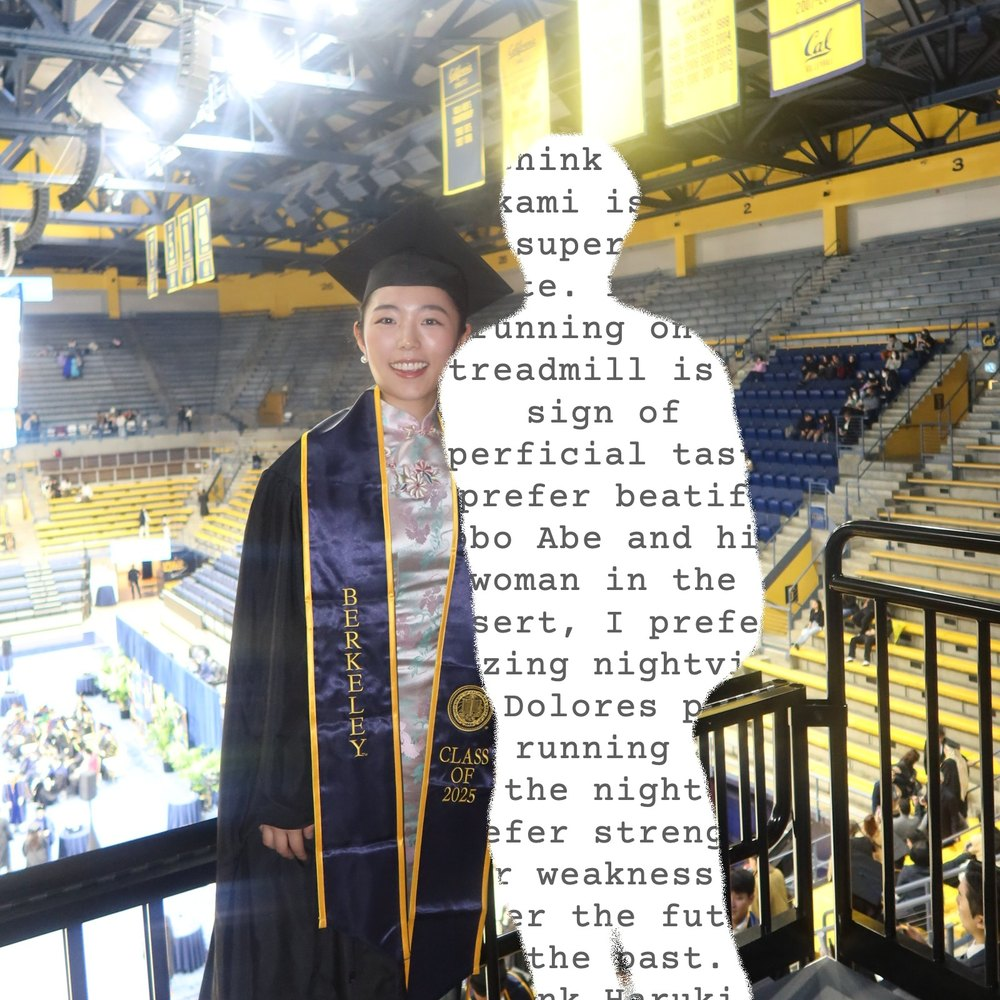
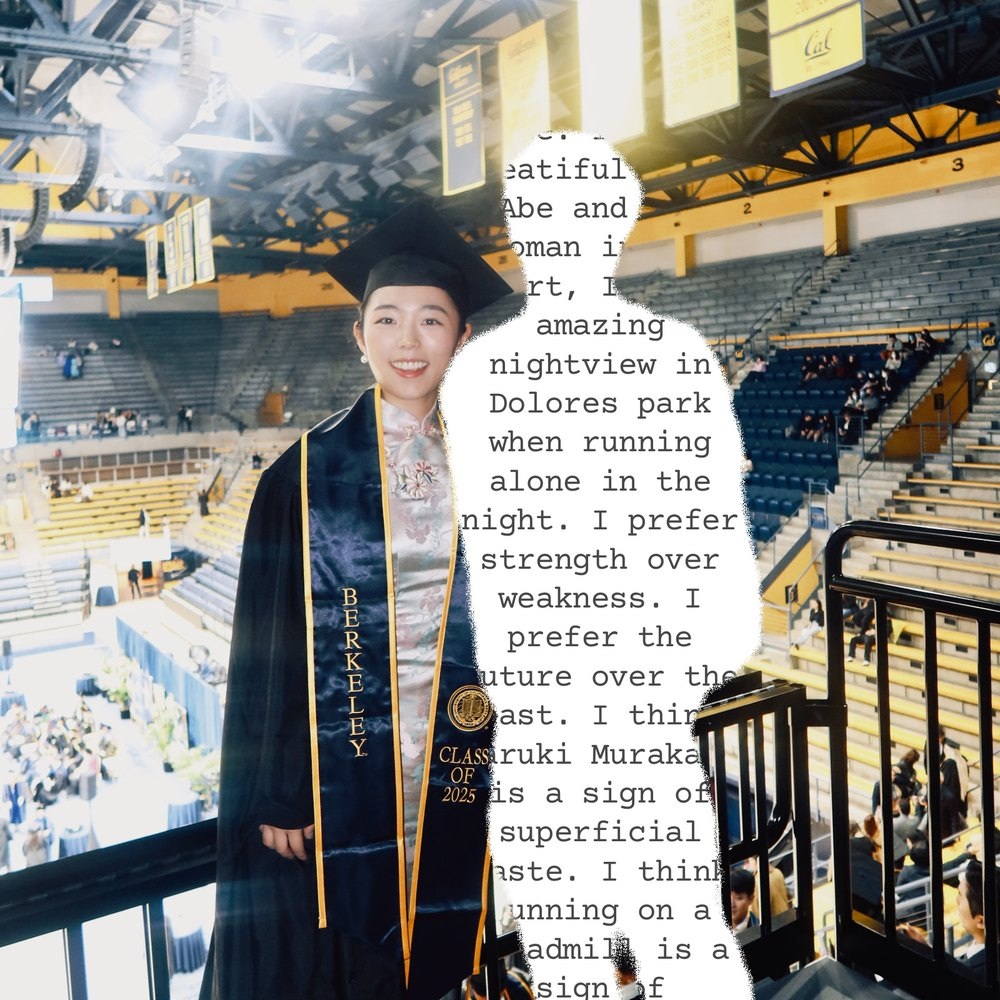
Cover v5

diff --git a/index.html b/index.html
@@ -300,7 +300,7 @@ footer { position: relative; z-index: 1; max-width: 1200px; margin: 32px auto 0;
   <div class="stage-wrap" id="stageWrap">
     <div class="stage" id="stage">
       <div class="intro" id="intro">
-        <img class="demo" src="example.jpg?v=4" alt="" width="1000" height="1000">
+        <img class="demo" src="example.jpg?v=5" alt="" width="1000" height="1000">
         <h2 data-i18n="introTitle">别回头看</h2>
         <p data-i18n="introText">点一下要消失的人，TA 会变成剪影，再在剪影里写一句话。</p>
         <div class="btn-row">
